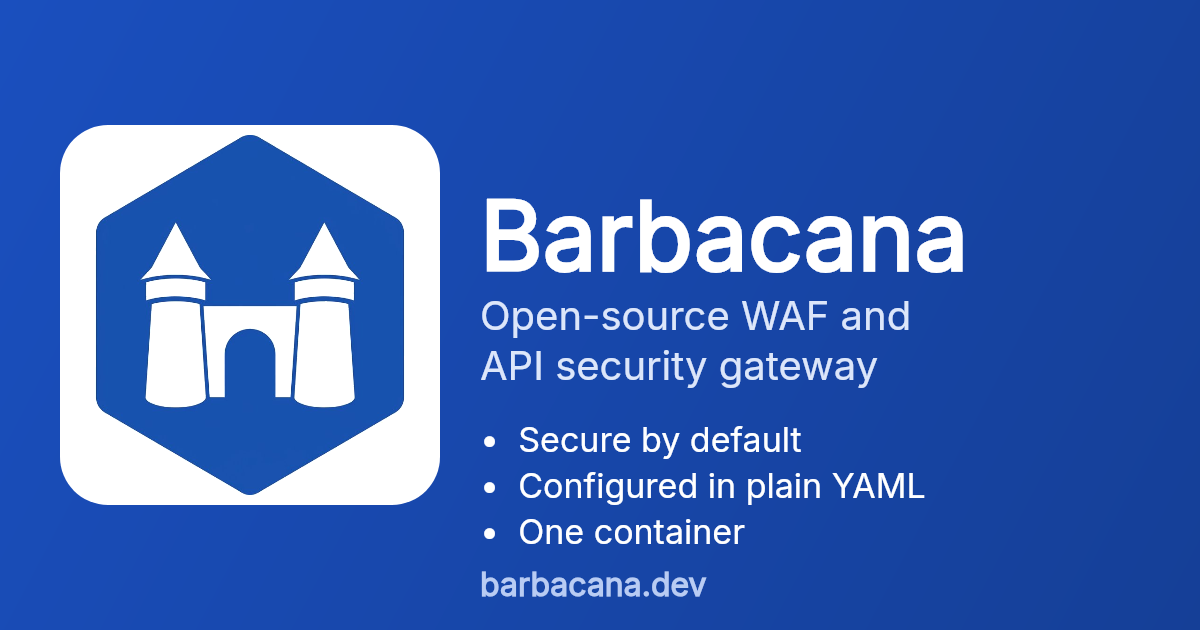
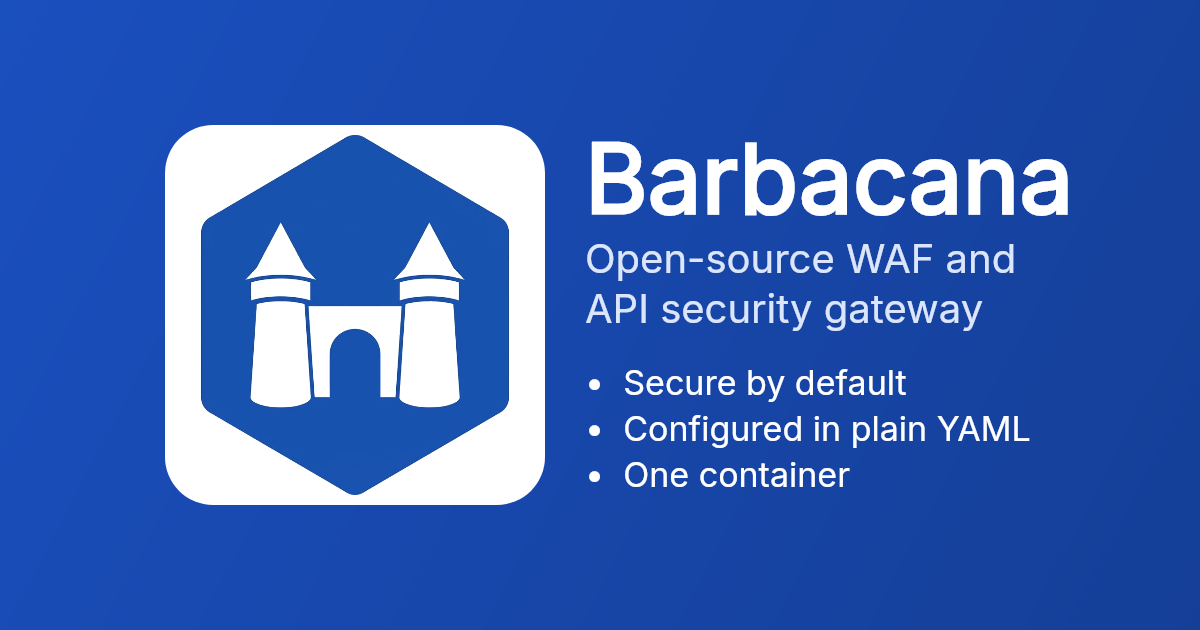
feat(docs): fix social preview image layout and add image alt text
Center the content so messaging apps that crop to ~1.6:1 (WhatsApp) no
longer cut the logo, align the text block with the logo, and drop the
redundant URL line. Add og:image:alt and twitter:image:alt.

Claude-Session: https://claude.ai/code/session_01NEm8BM6qvj6tr6T5TtgHga

Changed region(s): [[0.0308, 0.181, 0.8942, 0.8746], [0.4008, 0.9048, 0.5858, 0.9651]]

diff --git a/overrides/main.html b/overrides/main.html
@@ -12,9 +12,11 @@
   <meta property="og:image" content="https://barbacana.dev/assets/social.png">
   <meta property="og:image:width" content="1200">
   <meta property="og:image:height" content="630">
+  <meta property="og:image:alt" content="Barbacana logo, a white castle gate with two towers on a blue hexagon, next to the text: Barbacana, open-source WAF and API security gateway. Secure by default, configured in plain YAML, one container.">
   <meta name="twitter:card" content="summary_large_image">
   <meta name="twitter:title" content="{{ bb_title }}">
   <meta name="twitter:description" content="{{ bb_desc }}">
   <meta name="twitter:image" content="https://barbacana.dev/assets/social.png">
+  <meta name="twitter:image:alt" content="Barbacana logo, a white castle gate with two towers on a blue hexagon, next to the text: Barbacana, open-source WAF and API security gateway. Secure by default, configured in plain YAML, one container.">
   <script defer src="https://static.cloudflareinsights.com/beacon.min.js" data-cf-beacon='{"token": "15489db793944dc8a42c626a84db8287"}'></script>
 {% endblock %}
